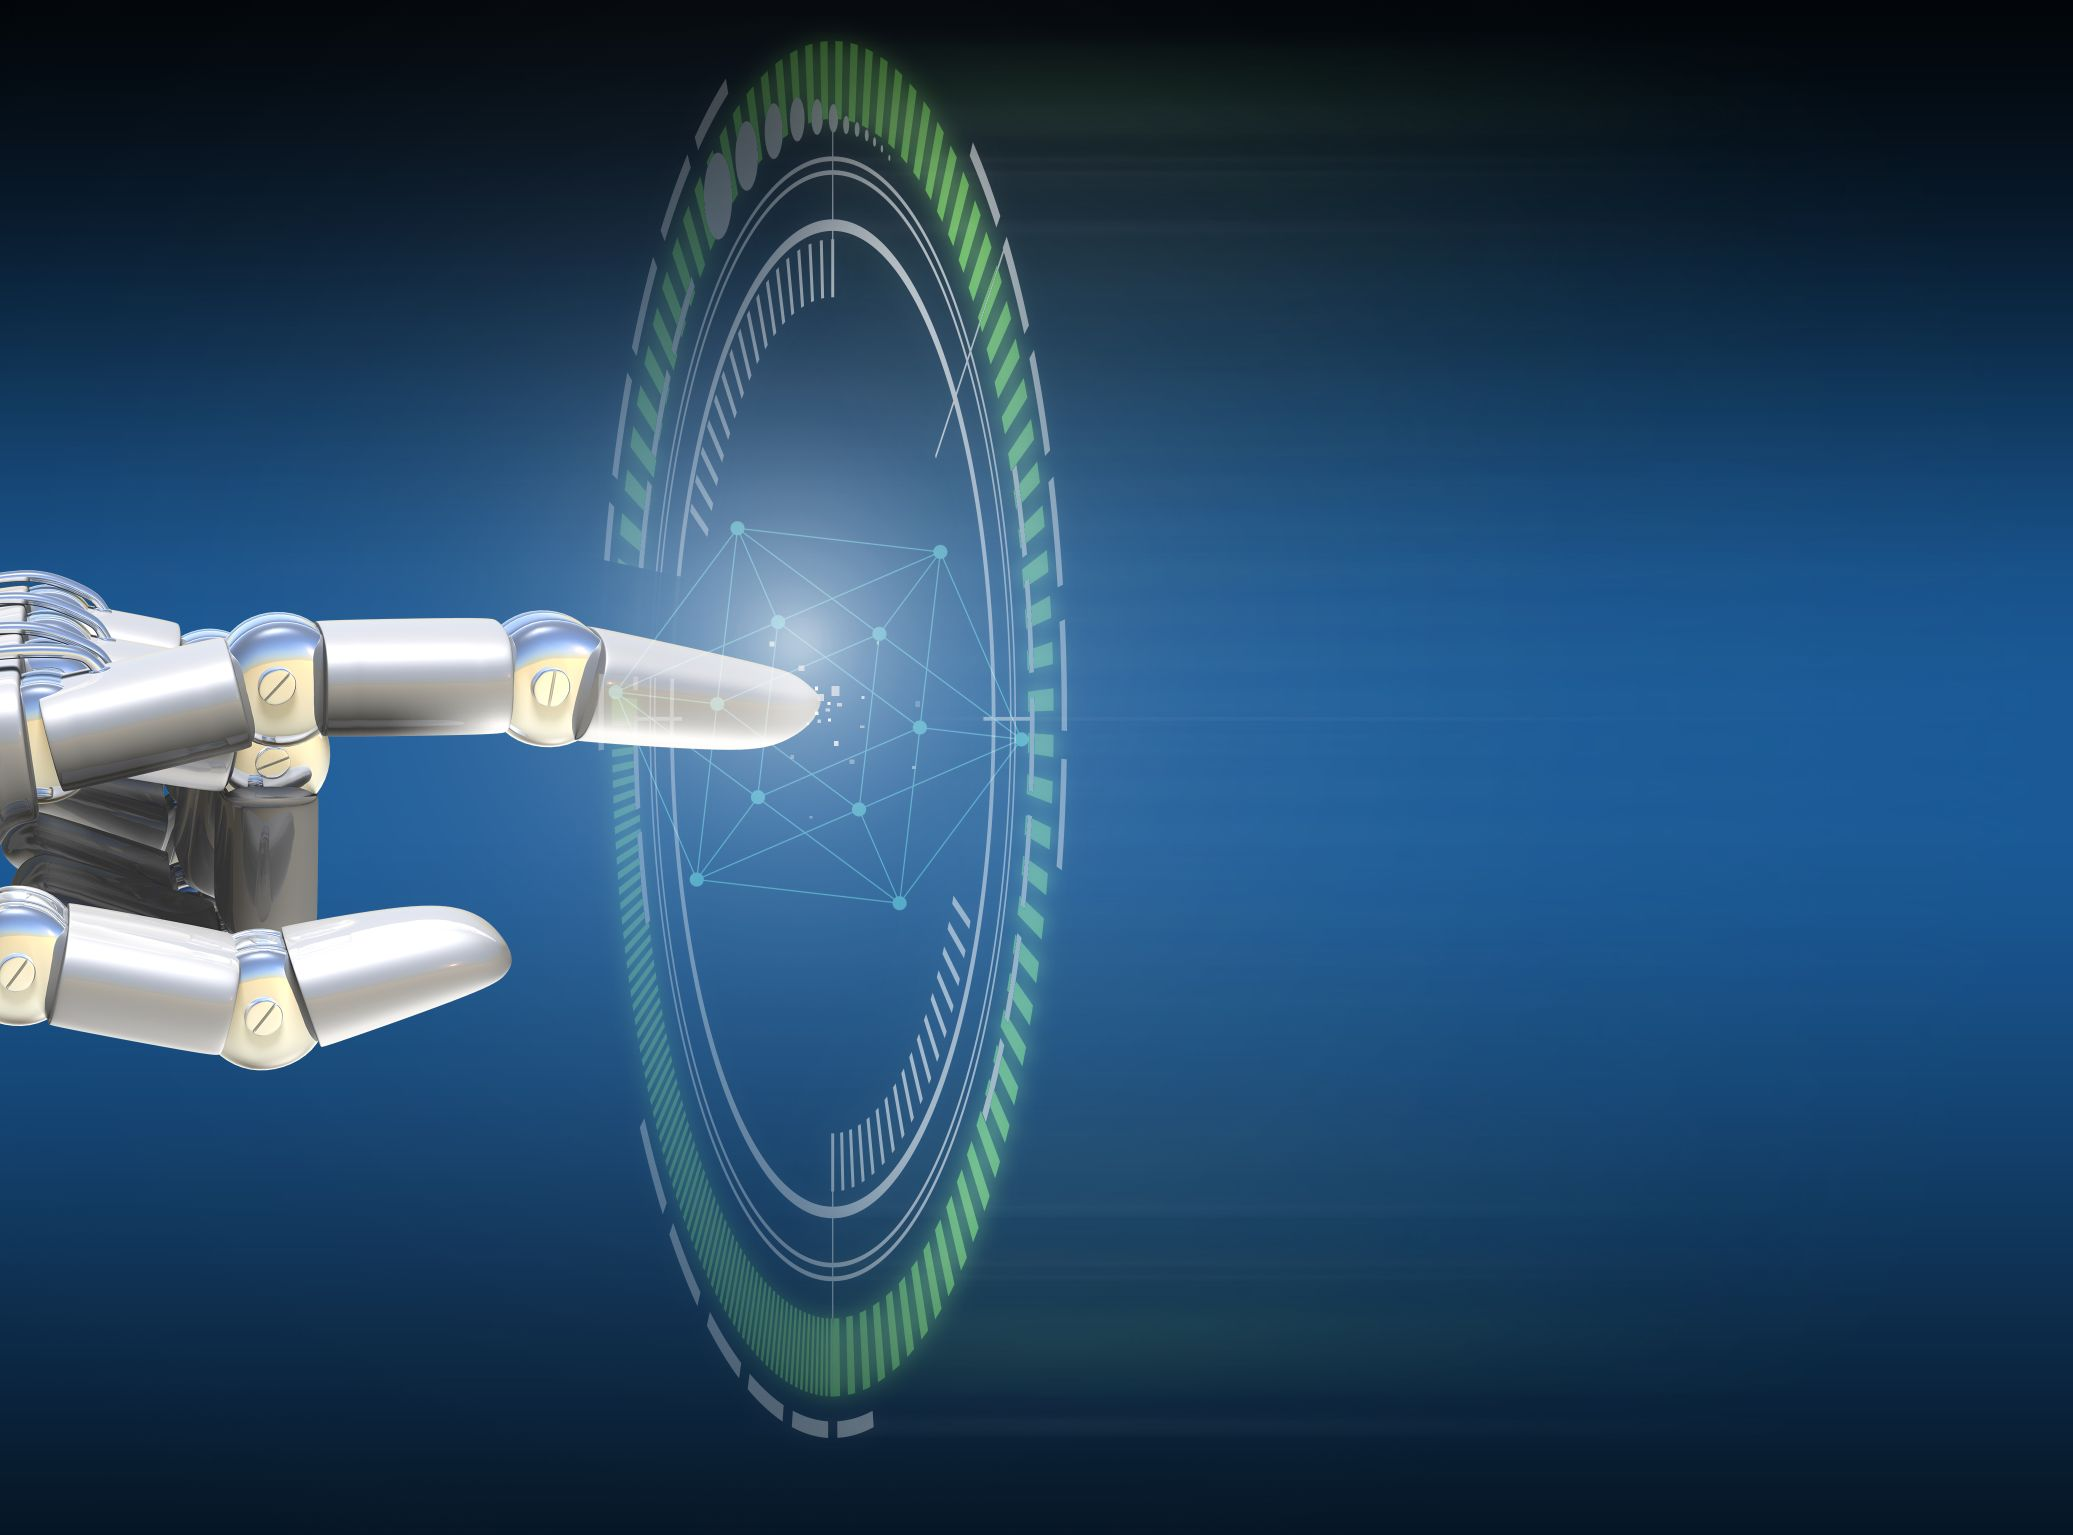
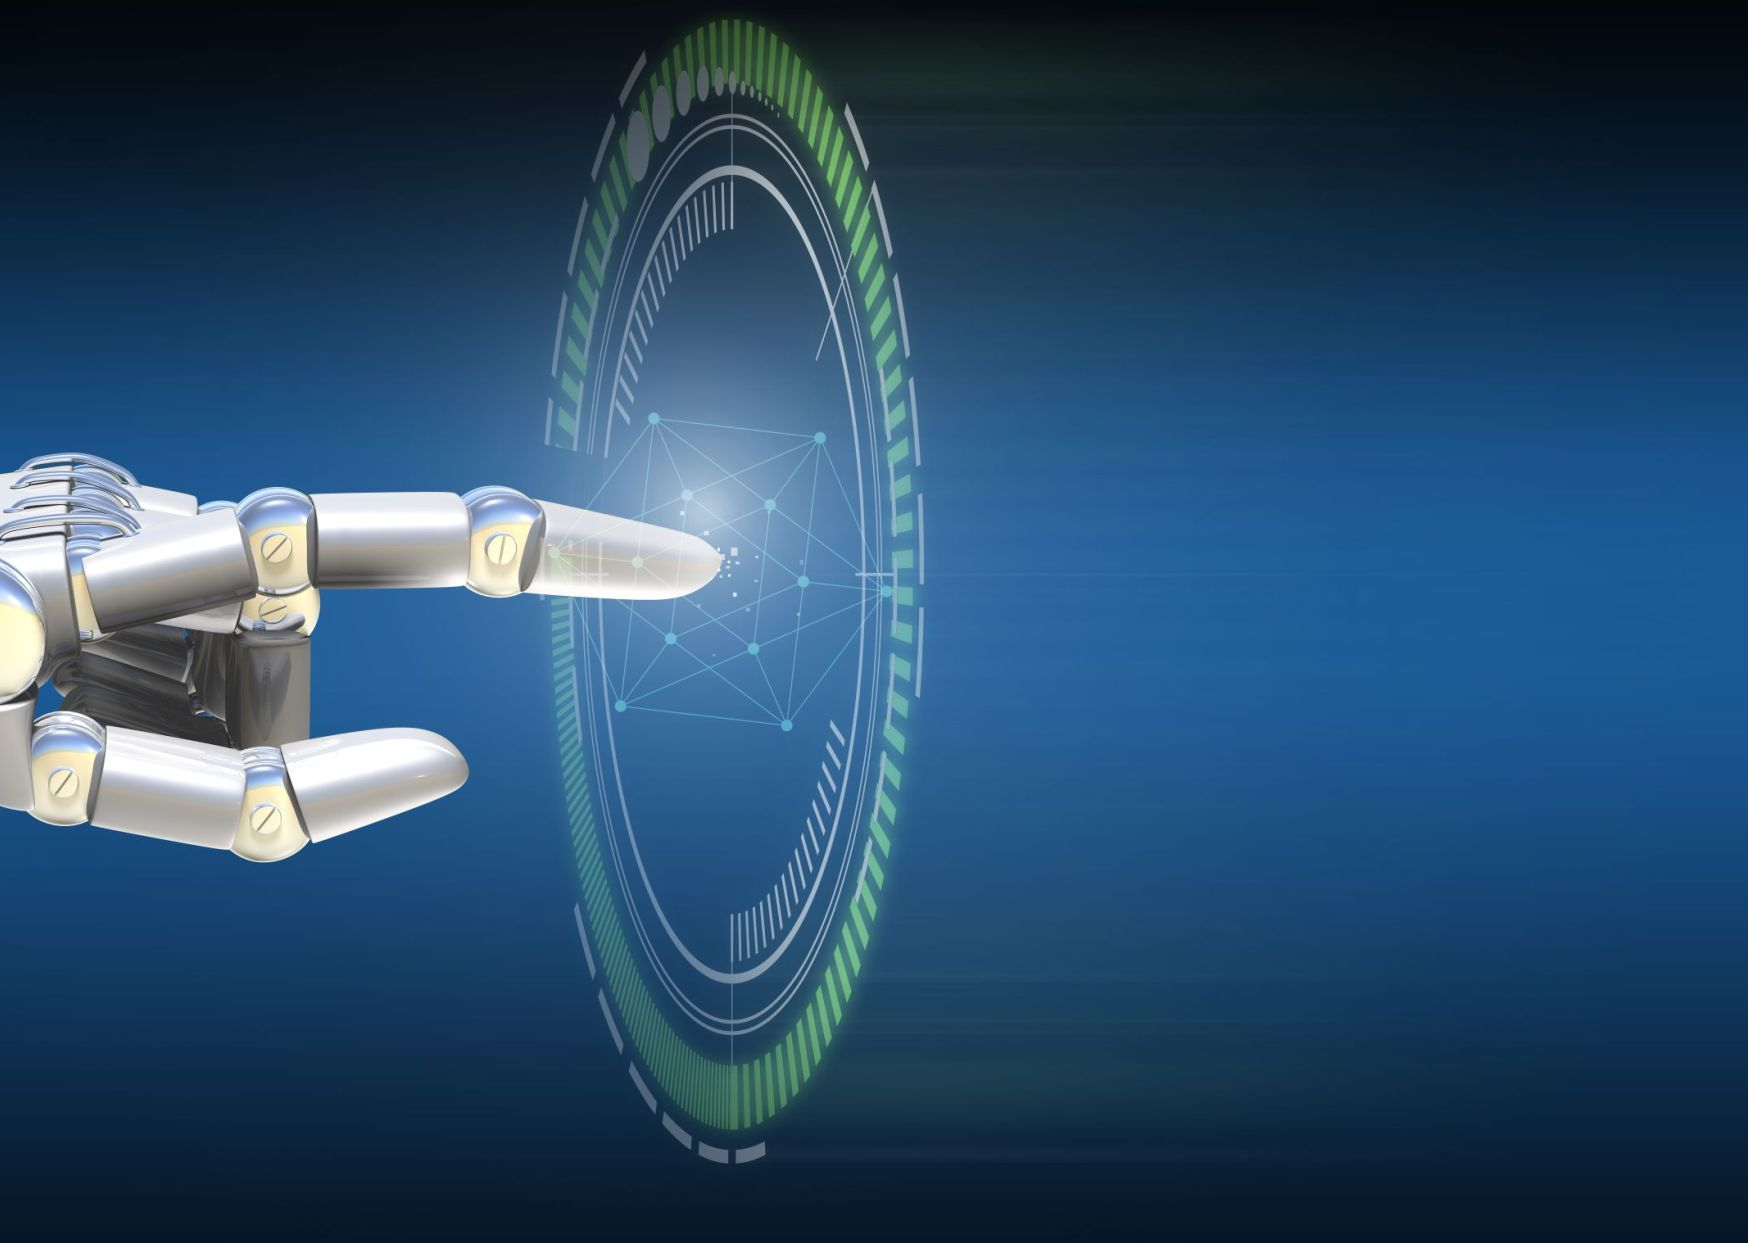
changes

Changed region(s): [[0.0, 0.0, 0.5252, 0.9477], [0.4016, 0.5197, 0.4325, 0.5503]]

diff --git a/src/components/AiVoiceChat.jsx b/src/components/AiVoiceChat.jsx
@@ -156,7 +156,7 @@ export default class AiVoiceChat extends Component {
       height: "96vh",
       marginTop: "2%",
       //fontSize: "50px",
-      backgroundSize: "cover",
+      backgroundSize: "contain ",
       backgroundRepeat: "no-repeat",
     };
     return (
